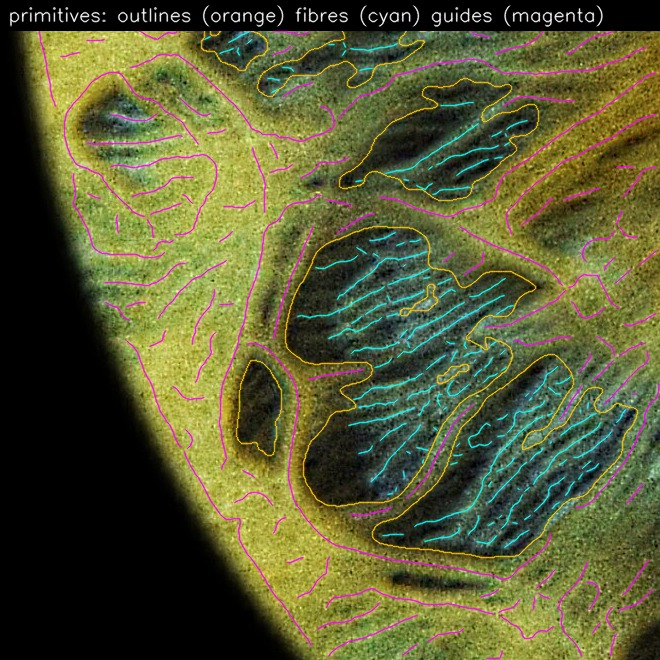
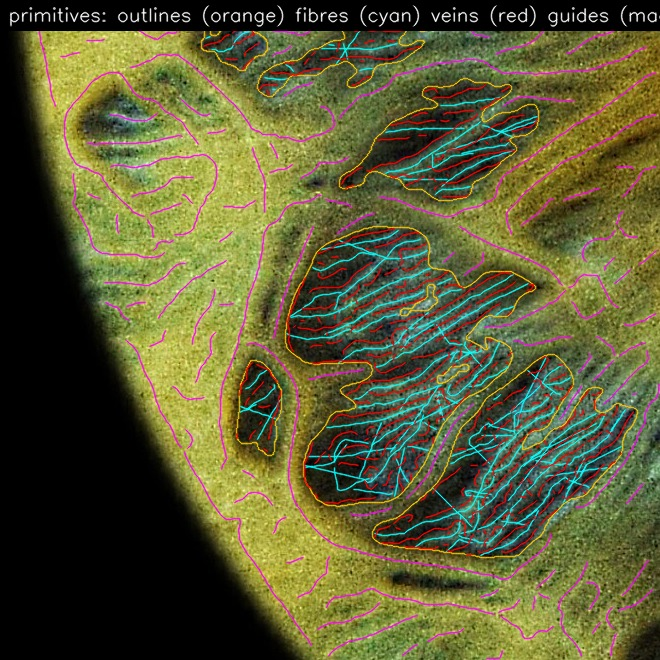
iris-engine: P0b — deck as packed fibres with traced veins, fibres found on local contrast and run to the walls (spec §30)

diff --git a/iris-engine/tools/layer_proof.py b/iris-engine/tools/layer_proof.py
@@ -86,13 +86,18 @@ def fourier_smooth(cnt, M=24, n=512):
     z = np.fft.ifft(np.where(keep, Z, 0)); return np.stack([z.real, z.imag], 1)
 
 
-def centrelines(Lf, focus, sig_px, min_len):
+def centrelines(Lf, focus, sig_px, min_len, regions=None):
     """S0 recipe: multi-scale bright-ridge strength, NMS across the ridge, hysteresis, thinning, pruning → ordered paths"""
     R, S, nx, ny = ridge(Lf, sig_px)
     H, W = Lf.shape; gy, gx = np.mgrid[0:H, 0:W].astype(np.float32); st = max(1.0, 0.5 * sig_px[0])
     Rs = cv2.GaussianBlur(R, (0, 0), max(0.8, 0.35 * sig_px[0]))
     Ra = cv2.remap(Rs, gx + st * nx, gy + st * ny, cv2.INTER_LINEAR); Rb = cv2.remap(Rs, gx - st * nx, gy - st * ny, cv2.INTER_LINEAR)
     vals = R[focus & (R > 0)]; hi, lo = np.percentile(vals, 45), np.percentile(vals, 15)
+    if regions is not None:                                                  # thresholds per hole: a dark crypt is judged against itself
+        hi, lo = np.full(R.shape, hi, np.float32), np.full(R.shape, lo, np.float32)
+        for r in range(1, int(regions.max()) + 1):
+            m = (regions == r) & (R > 0)
+            if m.sum() > 200: hi[regions == r], lo[regions == r] = np.percentile(R[m], 45), np.percentile(R[m], 15)
     cand = cv2.dilate(((Rs >= Ra) & (Rs >= Rb) & (R > lo) & focus).astype(np.uint8), np.ones((2, 2), np.uint8))
     n0, l0 = cv2.connectedComponents(cand, connectivity=8)
     strong = np.zeros(n0, bool); strong[np.unique(l0[(R > hi) & (cand > 0)])] = True; strong[0] = False
@@ -106,6 +111,29 @@ def centrelines(Lf, focus, sig_px, min_len):
         ys, xs = np.nonzero(lab == i)
         if len(ys) >= min_len: paths.append(order_path(ys, xs))           # (row, col)
     return paths, S
+
+
+def extend_to_walls(paths, sd, max_px=70):
+    """Model prior: a deck fibre does not end in mid-air — it runs on under the shadow until it meets the wall (or another
+    fibre). Geometry of the extension is INFERRED (provenance), its brightness payload is still read from the photo."""
+    H, W = sd.shape; ink = np.ones((H, W), np.uint8)
+    for p in paths: ink[p[:, 0].astype(int), p[:, 1].astype(int)] = 0
+    near = cv2.distanceTransform(ink, cv2.DIST_L2, 5); out = []
+    for p in paths:
+        p = p.astype(np.float64)
+        for end in (0, 1):
+            q = p[::-1] if end == 0 else p
+            if len(q) < 5 or sd[int(q[-1, 0]), int(q[-1, 1])] < 6: continue        # already at a wall
+            t = q[-1] - q[-min(len(q), 8)]; t /= max(np.hypot(*t), 1e-6); add = []; pos = q[-1].copy()
+            for k in range(max_px):
+                pos = pos + t; y, x = int(round(pos[0])), int(round(pos[1]))
+                if not (0 <= y < H and 0 <= x < W) or sd[y, x] < 1.5: break
+                if k > 8 and near[y, x] < 2.5: break
+                add.append(pos.copy())
+            if add: q = np.vstack([q, np.array(add)])
+            p = q[::-1] if end == 0 else q
+        out.append(p)
+    return out
 
 
 def payload_curve(path, step_px, sample, width_map):
@@ -171,7 +199,7 @@ def main():
     holes = np.zeros((H, W), np.uint8); cv2.fillPoly(holes, [o.round().astype(np.int32) for o in outlines], 1)
     cv2.fillPoly(holes, [o.round().astype(np.int32) for o in islands], 0); outlines = outlines + islands
     sd = cv2.distanceTransform(holes, cv2.DIST_L2, 5) - cv2.distanceTransform(1 - holes, cv2.DIST_L2, 5)  # + inside a hole, px
-    WALL = 5.0                                                                                           # px ≈ 23 µm soft wall
+    WALL = 8.0                                                                                           # px ≈ 23 µm soft wall
     cover = 1 - sstep(-WALL, WALL, sd)                                                                   # 1 = sheet, 0 = hole
     sheet_px = (sd < -14) & inner; hole_px = sd > 5; rim_px = (sd > -12) & (sd < -3) & inner
     print(f'{len(outlines)} hole outlines · holes {100 * holes[inner].mean():.1f} % of the window')
@@ -180,8 +208,19 @@ def main():
     Lf = cv2.GaussianBlur(pY.astype(np.float32), (0, 0), 1.0)
     step = PAYLOAD_UM / UM
     base_h = cv2.GaussianBlur(np.where(hole_px, pY, 0).astype(np.float32), (0, 0), 14) / np.maximum(cv2.GaussianBlur(hole_px.astype(np.float32), (0, 0), 14), 1e-3)
-    fpaths, fS = centrelines(Lf, sd > 1, [2.0, 3.0, 4.5], 6)
-    fibres = [payload_curve(p, step, Lf, fS * 2.0) for p in fpaths]
+    # fibres are FOUND on local contrast (a fibre in a crypt's shadow is as real as one in the light — the eye normalises,
+    # an absolute threshold does not) and their payload is READ from the true luminance, so they render as dim as they are
+    Ln = (cv2.GaussianBlur(pY.astype(np.float32), (0, 0), 1.5) / np.maximum(cv2.GaussianBlur(pY.astype(np.float32), (0, 0), 14), 0.004)).astype(np.float32)
+    _, hole_lab = cv2.connectedComponents((sd > 1).astype(np.uint8), connectivity=8)
+    fpaths, fS = centrelines(Ln, sd > 1, [2.0, 3.0, 4.5], 6, hole_lab)
+    fpaths = extend_to_walls(fpaths, sd)
+    Lbody = cv2.GaussianBlur(pY.astype(np.float32), (0, 0), 2.5)                                          # a fibre's BODY brightness, not its peak
+    fibres = [payload_curve(p, step, Lbody, fS * 2.0) for p in fpaths]
+    # the dark VEINS between fibres: valleys of the same local-contrast image, traced as curves of their own; their payload is
+    # how dark the gap is RELATIVE to the fibre bodies beside it (so a vein in a shadow is a vein, not a second shadow)
+    vpaths, vS = centrelines(-Ln, sd > 0, [1.5, 2.5], 6, hole_lab)
+    vrel = np.clip(cv2.GaussianBlur(pY.astype(np.float32), (0, 0), 0.8) / np.maximum(cv2.GaussianBlur(pY.astype(np.float32), (0, 0), 5.0), 1e-4), 0.15, 1.0).astype(np.float32)
+    veins = [payload_curve(p, step, vrel, vS * 1.1) for p in vpaths]
     base_s = cv2.GaussianBlur(np.where(sheet_px, pY, 0).astype(np.float32), (0, 0), 0.5 * CELL_MM * 1000 / UM) / np.maximum(cv2.GaussianBlur(sheet_px.astype(np.float32), (0, 0), 0.5 * CELL_MM * 1000 / UM), 1e-3)
     gpaths, gS = centrelines(cv2.GaussianBlur(Lf, (0, 0), 2.0), sd < -6, [4.0, 6.0, 9.0], 14)
     den_s = cv2.GaussianBlur(sheet_px.astype(np.float32), (0, 0), 0.5 * CELL_MM * 1000 / UM)
@@ -241,8 +280,13 @@ def main():
     # ---- 5. compose the layers (linear light)
     rs = np.random.RandomState(26)
     # deck: tubes under a frontal ring flash — brightness payload × round cross-profile, over the dark ground
-    prof = np.sqrt(np.clip(1 - (fib_d / np.maximum(fib_w, 1.5)) ** 2, 0, 1))
-    deckY = fib_v * prof
+    # deck: broad fibres packed side by side — every floor point takes the body brightness of its nearest fibre (the curves'
+    # Voronoi cells; wall shadows arrive with the payload), a little roundness, and the traced veins cut the dark gaps
+    v_d, v_v, v_w = raster_curves(veins, (H, W))
+    vein = (1 - v_v) * np.exp(-0.5 * (v_d / np.maximum(v_w, 1.2)) ** 2)
+    roundness = 0.78 + 0.22 * np.sqrt(np.clip(1 - (fib_d / np.maximum(1.4 * fib_w, 3.0)) ** 2, 0, 1))
+    deckY = cv2.GaussianBlur(fib_v, (0, 0), 2.5) * roundness * (1 - vein)
+    prof = 1 - sstep(14.0, 26.0, fib_d)                                                                   # no fibre within ≈ 0.1 mm: a true pit, the ground shows
     deck_rgb = mats['deck'][0][None, None, :] / max(float(mats['deck'][0] @ LUMA), 1e-4) * deckY[..., None]
     gY = cv2.GaussianBlur(np.where(off_fibre, pY, 0).astype(np.float32), (0, 0), 20) / np.maximum(cv2.GaussianBlur(off_fibre.astype(np.float32), (0, 0), 20), 1e-3)   # ground level, 0.1 mm scale
     ground_rgb = mats['ground'][0][None, None, :] / max(float(mats['ground'][0] @ LUMA), 1e-4) * gY[..., None]
@@ -284,7 +328,7 @@ def main():
             a, b = bp(plab[..., 0])[m], bp(lab[..., 0])[m]; out[nm + '_corr'] = float(np.corrcoef(a, b)[0, 1]); out[nm + '_ratio'] = float(b.std() / a.std())
         return {k2: round(v, 3) for k2, v in out.items()}
     report['metrics'] = {'engine_v84c': metrics(eng_w), 'layers_clean': metrics(clean), 'layers_with_camera_grain': metrics(noisy)}
-    report['primitives'] = {'outlines': len(outlines), 'outline_coeffs': len(outlines) * 65 * 2, 'fibres': len(fibres), 'fibre_samples': nf, 'guides': len(guides), 'guide_samples': ng,
+    report['primitives'] = {'outlines': len(outlines), 'outline_coeffs': len(outlines) * 65 * 2, 'fibres': len(fibres), 'fibre_samples': nf, 'guides': len(guides), 'guide_samples': ng, 'veins': len(veins), 'vein_samples': int(sum(len(c['xy']) for c in veins)),
                             'rim_samples': int(sum(len(a) for a in rim_strength)), 'sheet_cells': int(gx * gy), 'window_mm2': round((n * UM / 1000) ** 2, 2)}
     for kx, v in report['metrics'].items(): print(kx, v)
     print(report['primitives'])
@@ -298,7 +342,8 @@ def main():
     for o in outlines: cv2.polylines(ov, [o.round().astype(np.int32)], True, (0, 200, 255), 1, cv2.LINE_AA)
     for c in fibres: cv2.polylines(ov, [c['xy'].round().astype(np.int32)], False, (255, 255, 0), 1, cv2.LINE_AA)
     for c in guides: cv2.polylines(ov, [c['xy'].round().astype(np.int32)], False, (255, 0, 255), 1, cv2.LINE_AA)
-    cv2.imwrite(os.path.join(OUT, 'proof-26-primitives.jpg'), tag(ov, 'primitives: outlines (orange) fibres (cyan) guides (magenta)'), [cv2.IMWRITE_JPEG_QUALITY, 92])
+    for c in veins: cv2.polylines(ov, [c['xy'].round().astype(np.int32)], False, (0, 0, 255), 1, cv2.LINE_AA)
+    cv2.imwrite(os.path.join(OUT, 'proof-26-primitives.jpg'), tag(ov, 'primitives: outlines (orange) fibres (cyan) veins (red) guides (magenta)'), [cv2.IMWRITE_JPEG_QUALITY, 92])
 
 
 if __name__ == '__main__':

diff --git a/iris-engine/study/00-summary-and-spec.md b/iris-engine/study/00-summary-and-spec.md
@@ -1409,6 +1409,18 @@ overhang shadow on the lit side, septa weak), fibres a little thin and pale, the
 and stipple are under-modelled, B3 ratio 0.45 clean), the grade is strong and global; (4) two bugs worth remembering
 — black pits inside crypts read as "outside the iris" (fill the mask), and a relative payload explodes where its base
 field has no support (clamp + fall back).
+**P0b (same day, iori: "the shadows still miss the veins").** A shadow-lifted zoom showed the first deck was the
+inverse of the tissue: thin bright ribbons on a flat dark floor, where the photo has **broad fibres packed side by
+side with thin dark gaps — the veins — as the detail**, continuing dimly under the wall shadows. Changes: fibres are
+*found* on local contrast (L / 65 µm local mean, thresholds per crypt) and their payload is *read* from true
+luminance, so a fibre in shadow is drawn as dim as it is; fibres run on to the wall (geometry inferred, payload
+measured — provenance); the floor takes the body brightness of its nearest fibre (the curves' Voronoi cells, so wall
+shadows arrive with the payload); the **veins are traced as curves of their own** (259 curves, 1,569 samples, payload
+= darkness relative to the fibre bodies beside them); ground shows only where no fibre lies within ≈ 0.1 mm. Window
+numbers (clean): cell Δab 3.0, holes/sheet/rim 1.4 / 1.2 / 1.7, B1/B2/B3 corr 0.97 / 0.81 / 0.45 (engine 0.76 / 0.74 /
+0.14). Still open: per-fibre *colour* payload (teal vs grey fibres), the sheet's stipple and streaks (B3 ratio 0.36
+clean), septa. Budget now ≈ 9.9 k numbers per 9.5 mm².
+
 Next (P1, to be agreed): the same model as a separately compiled bake variant behind `tissueModel`, fed by these
 primitives for the same window, judged against this mock and the photo; then the camera grade + neutral-scatter
 field in the engine's colour path; then the journaled closed-loop fitter.
